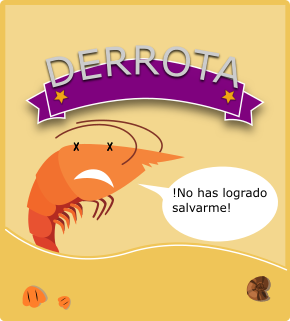
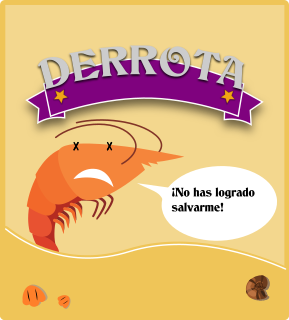
Actualizacion del juego memoria
Assets nuevos. Arreglos en el menu de pausa  y la pantalla de inicio

diff --git a/src/pantallas/GamePlayPlaya.js b/src/pantallas/GamePlayPlaya.js
@@ -11,6 +11,7 @@ var cartaClickeada1nombre;
 var mismaCarta=0;
 var play=false;
 var first_click=false;
+
 //Arreglos
 
 
@@ -53,10 +54,20 @@ GamePlayPlaya.prototype = {
         // this.endGame=false;
     },
     preload: function() {
-        game.load.image('backgroundPlaya', 'assets/img/playa/fondo1.png');
-        game.load.image('boton_play', 'assets/img/playa/inicio.png');
-        game.load.spritesheet('cuadros1', 'assets/img/playa/cuadros1.png', 184, 299);
-        
+        game.load.image('background', 'assets/img/playa/images/fondo1.png');
+        game.load.image('boton_play', 'assets/img/playa/images/inicio.png');
+        game.load.spritesheet('cuadros1', 'assets/img/playa/images/cuadros1.png', 184, 299);
+        game.load.image('background_inicio', 'assets/img/playa/images/start_screen.png');
+        game.load.spritesheet('boton_start', 'assets/img/playa/images/boton_inicio.png', 74, 29);
+        game.load.image('boton_inst', 'assets/img/playa/images/instrucciones.png');
+        game.load.image('inst_screen', 'assets/img/playa/images/reglas.png');
+        game.load.image('boton_back', 'assets/img/playa/images/back.png');
+        game.load.image('recarga', 'assets/img/playa/images/reload.png');
+        game.load.image('home', 'assets/img/playa/images/home.png');
+        game.load.image('pausa', 'assets/img/playa/images/pausa.png');
+        game.load.image('pausa_screen', 'assets/img/playa/images/pausa_screen.png');
+        game.load.image('resume', 'assets/img/playa/images/resume.png');
+
         game.load.image('victoria0', 'assets/img/playa/images/victoria.png');
         game.load.image('victoria1', 'assets/img/playa/images/victoria1.png');
         game.load.image('victoria2', 'assets/img/playa/images/victoria2.png');
@@ -69,24 +80,31 @@ GamePlayPlaya.prototype = {
     },
     
     create: function() {
-        console.log("22"+play);
-        //var fondo = game.add.sprite(0, 0, 'boton_play');
+        game.time.events.remove(this.timerGameOver);
+        game.paused=false;
+        var style = {
+            font: '20pt Impact',
+            fill: '#FF4000'
+          }
     
-        var fondo = game.add.sprite(0, 0, 'backgroundPlaya');
-        fondo.width = window.innerWidth;
-        fondo.height = window.innerHeight;
-        this.cartas = game.add.group();
-        this.cartas.inputEnableChildren = true;
-        var numero=0;
-
+        var fondo_inicio = game.add.sprite(0, 0, 'background_inicio');
+        fondo_inicio.width = window.innerWidth;
+        fondo_inicio.height = window.innerHeight;
         
-            game.input.onDown.add(this.onTap, this);
+        boton_start = game.add.button(window.innerWidth/1.52, window.innerHeight/1.15, 'boton_start', this.onTap, this);
+        boton_inst = game.add.button(window.innerWidth/1.12, window.innerHeight/1.15, 'boton_inst', this.showInstrucciones, this);
         
 //    var indices={};
    var tipo=[0,0,1,1,2,2,3,3,4,4,5,5,6,6,7,7];
 
 
    if(play){
+    var fondo = game.add.sprite(0, 0, 'background');
+    fondo.width = window.innerWidth;
+    fondo.height = window.innerHeight;
+    this.cartas = game.add.group();
+    this.cartas.inputEnableChildren = true;
+    var numero=0;
     do{
         this.posicionCarta = Math.floor(Math.random() * (16 - 0)) + 0;
         // console.log(this.posicionCarta);
@@ -166,12 +184,14 @@ GamePlayPlaya.prototype = {
         }, this);
     
         this.currentScore = 0;
-        this.scoreText = game.add.text(window.innerWidth/4, 3, '0');
+        this.scoreText = game.add.text(window.innerWidth/4, 3, '0', style);
         
-      this.pintarPuntos=  game.add.text(window.innerWidth/50, 2, 'Pares: ');
-       this.pintarTiempo= game.add.text(window.innerWidth/3.2, window.innerHeight-80, 'Tiempo: ');
+        boton_pausa = game.add.button(window.innerWidth/1.12, 2, 'pausa', this.stop_game, this);
+
+      this.pintarPuntos=  game.add.text(window.innerWidth/50, 2, 'Pares: ', style);
+       this.pintarTiempo= game.add.text(window.innerWidth/3.6, window.innerHeight-70, 'Tiempo: ', style);
            this.totalTime = 150;
-            this.timerText = game.add.text(window.innerWidth/1.6, window.innerHeight -80, this.totalTime+'');
+            this.timerText = game.add.text(window.innerWidth/1.7, window.innerHeight -70, this.totalTime+'', style);
             this.timerGameOver = game.time.events.loop(Phaser.Timer.SECOND,function(){
                 console.log("timer");
                 this.totalTime--;
@@ -190,8 +210,7 @@ GamePlayPlaya.prototype = {
             }, this);
     };
 
-    
-
+        
 },
 
     onTap:function(){
@@ -203,6 +222,29 @@ GamePlayPlaya.prototype = {
         };
        
         console.log("escucha el lalalala click "+play);
+    },
+
+    stop_game:function(){
+        game.paused=true;
+        this.cartas.kill();
+        this.show_pausa();
+    },
+
+    continue_game:function(){
+        game.paused=false;
+        this.cartas.revive();
+        boton_pausa.revive();
+        pausa_screen.kill();
+        boton_home.kill();
+        boton_reload.kill();
+        boton_resume.kill();
+        bg.kill();
+    },
+
+    return_home:function(){
+        play=false;
+        first_click=false;
+        this.create();
     },
 
     pierdeTiempo:function(){
@@ -249,18 +291,7 @@ GamePlayPlaya.prototype = {
         
         var victoria_screen = game.add.sprite(window.innerWidth/2, window.innerHeight/2, 'victoria'+num_pantalla);
         victoria_screen.anchor.setTo(0.5);
-        
-        /*var style = {
-            font: 'bold 60pt Arial',
-            fill: '#FFFFFF',
-            align: 'center'
-          }*/
-        
-        /*this.textFieldFinalMsg = game.add.text(game.width/2, game.height/2, msg, style);
-        this.textFieldFinalMsg.anchor.setTo(0.5);
-        this.textFieldFinalMsg.scale.setTo(0.6);*/
-
-        
+        boton_pausa.kill();
     },
 
     showFinalMessageFail:function(msg){
@@ -279,6 +310,46 @@ GamePlayPlaya.prototype = {
         
         var derrota_screen = game.add.sprite(window.innerWidth/2, window.innerHeight/2, 'derrota'+num_pantalla);
         derrota_screen.anchor.setTo(0.5); 
+
+        boton_home = game.add.button((window.innerWidth/2)+15, (window.innerHeight/2)+115, 'home', this.return_home, this);
+        boton_reload = game.add.button((window.innerWidth/2)+49, (window.innerHeight/2)+115, 'recarga', this.create, this);
+        boton_pausa.kill();
+    },
+
+    showInstrucciones:function(msg){
+
+        var bgAlpha = game.add.bitmapData(game.width, game.height);
+        bgAlpha.ctx.fillStyle = '#000000';
+        bgAlpha.ctx.fillRect(0,0,game.width, game.height);
+        
+        var bg = game.add.sprite(0,0,bgAlpha);
+        bg.alpha = 0.5;
+        
+        var instrucciones_screen = game.add.sprite(window.innerWidth/2, window.innerHeight/2, 'inst_screen');
+        instrucciones_screen.anchor.setTo(0.5);
+        instrucciones_screen.width = window.innerWidth;
+        instrucciones_screen.height = window.innerHeight; 
+
+        boton_back = game.add.button(window.innerWidth/1.12, window.innerHeight/1.15, 'boton_back', this.create, this);
+    },
+
+    show_pausa:function(msg){
+        var bgAlpha = game.add.bitmapData(game.width, game.height);
+        bgAlpha.ctx.fillStyle = '#000000';
+        bgAlpha.ctx.fillRect(0,0,game.width, game.height);
+
+        bg = game.add.sprite(0,0,bgAlpha);
+        bg.alpha = 0.5;
+
+        pausa_screen = game.add.sprite(window.innerWidth/2, window.innerHeight/2, 'pausa_screen');
+        pausa_screen.anchor.setTo(0.5);
+        boton_home = game.add.button((window.innerWidth/2)-49, (window.innerHeight/2)+115, 'home', this.return_home, this);
+        boton_reload = game.add.button((window.innerWidth/2)-15, (window.innerHeight/2)+115, 'recarga', this.create, this);
+        boton_resume = game.add.button((window.innerWidth/2)+20, (window.innerHeight/2)+115, 'resume', this.continue_game, this);
+        
+           
+        
+        boton_pausa.kill();
     },
     
     update: function() {
